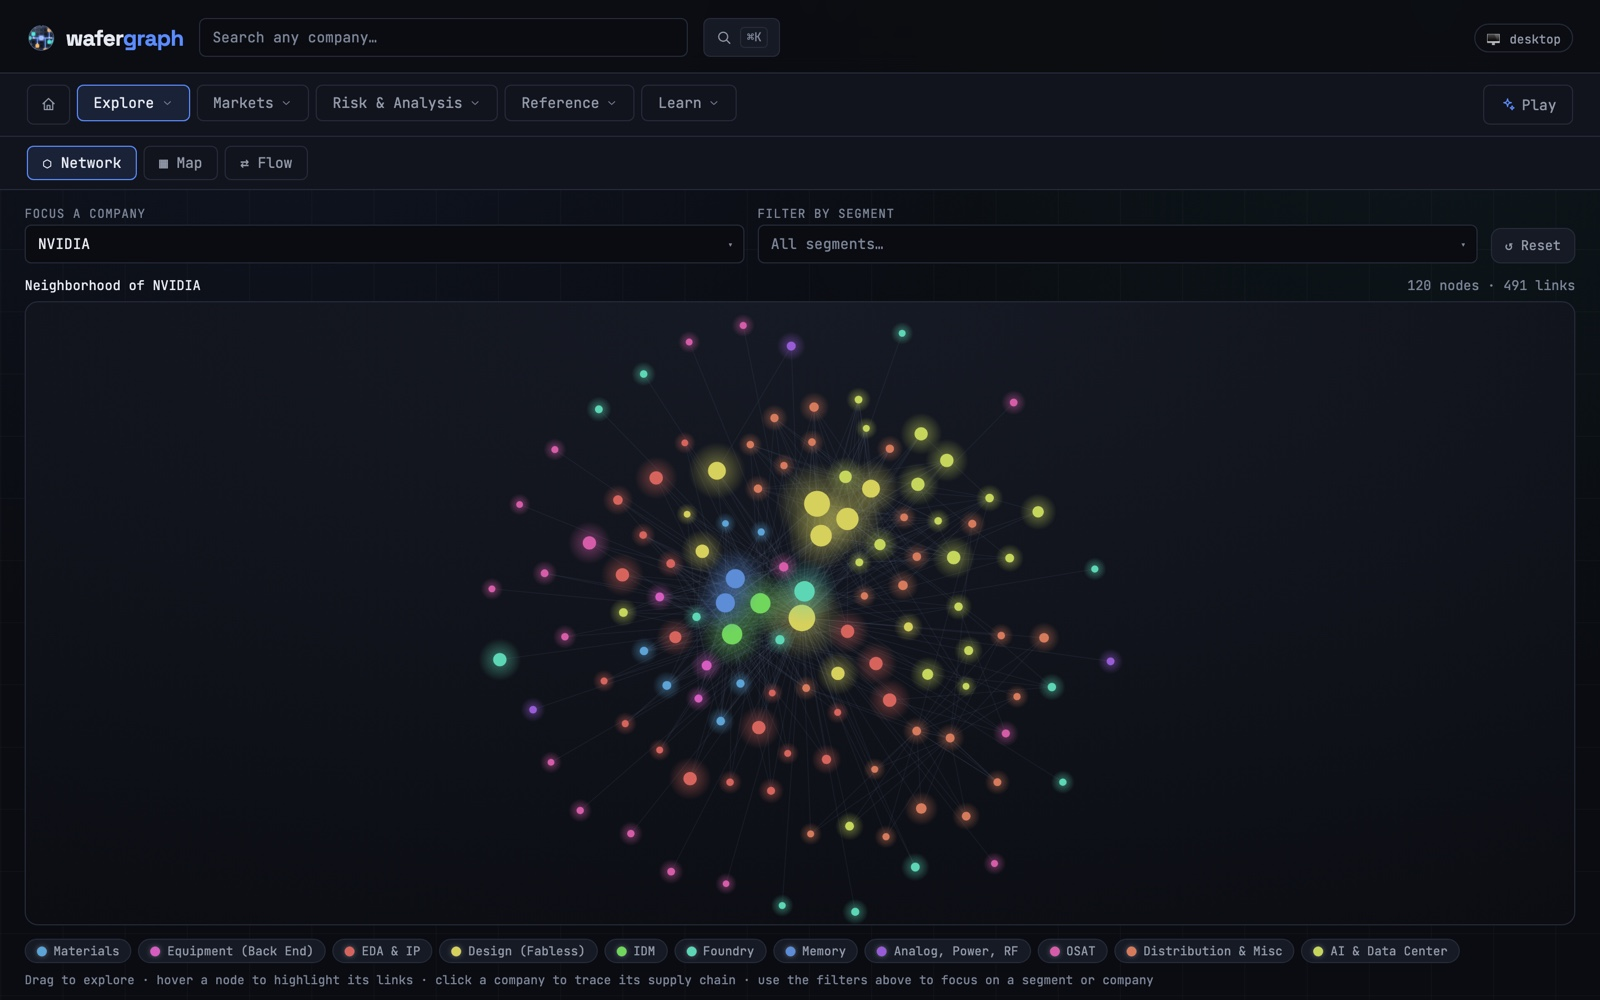
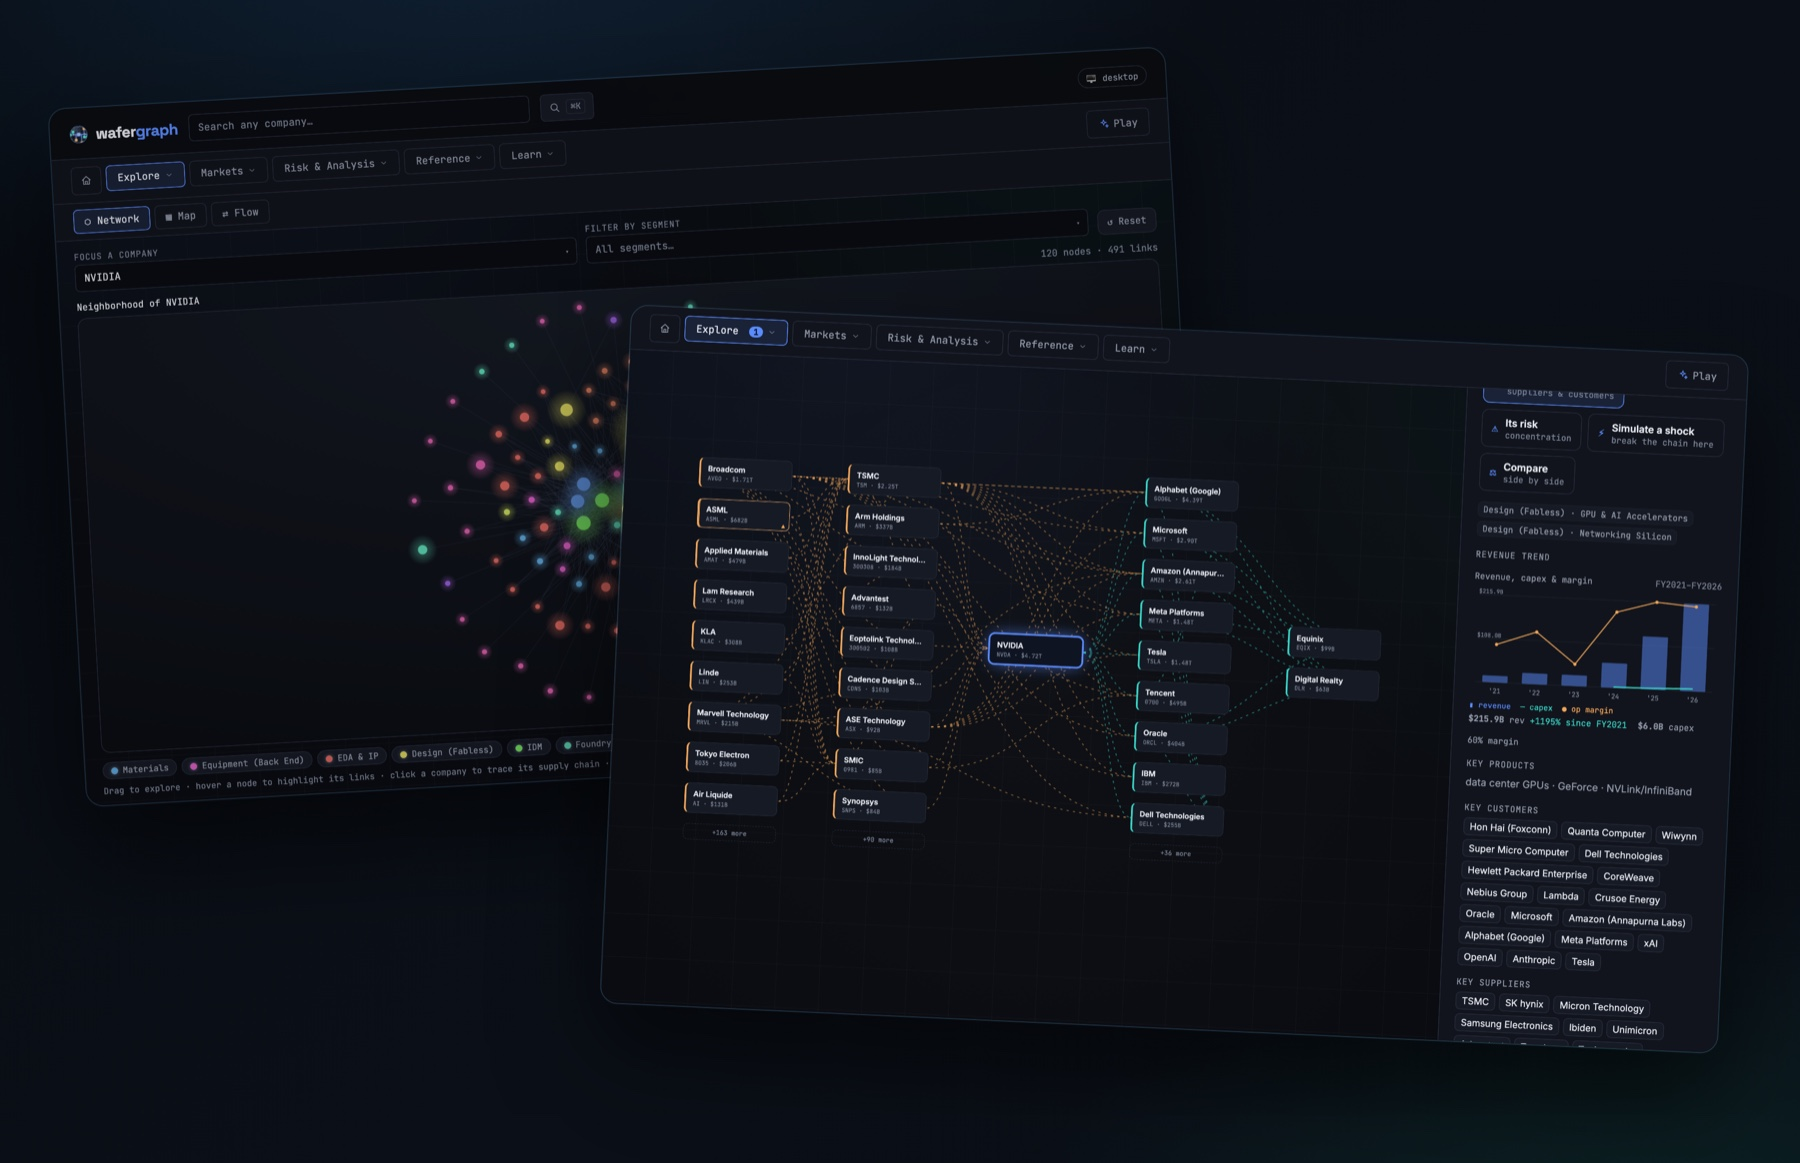
wafergraph card: two-screen montage (network graph + Flow view showing supplier/customer pills flowing)

diff --git a/src/data/tools.ts b/src/data/tools.ts
@@ -98,7 +98,7 @@ export const tools: Tool[] = [
     rarity: "epic",
     image: "/builds/wafergraph.jpg",
     imageAlt:
-      "wafergraph's interactive network graph — a force-directed map of the semiconductor & AI supply chain centered on NVIDIA's neighborhood, with companies as colored nodes by segment and supplier–customer links between them",
+      "Two views of wafergraph — the force-directed network graph of the semiconductor & AI supply chain, and the supply-chain Flow view showing companies as pills flowing upstream (suppliers) and downstream (customers) around NVIDIA",
   },
   {
     id: "whos-starting",
